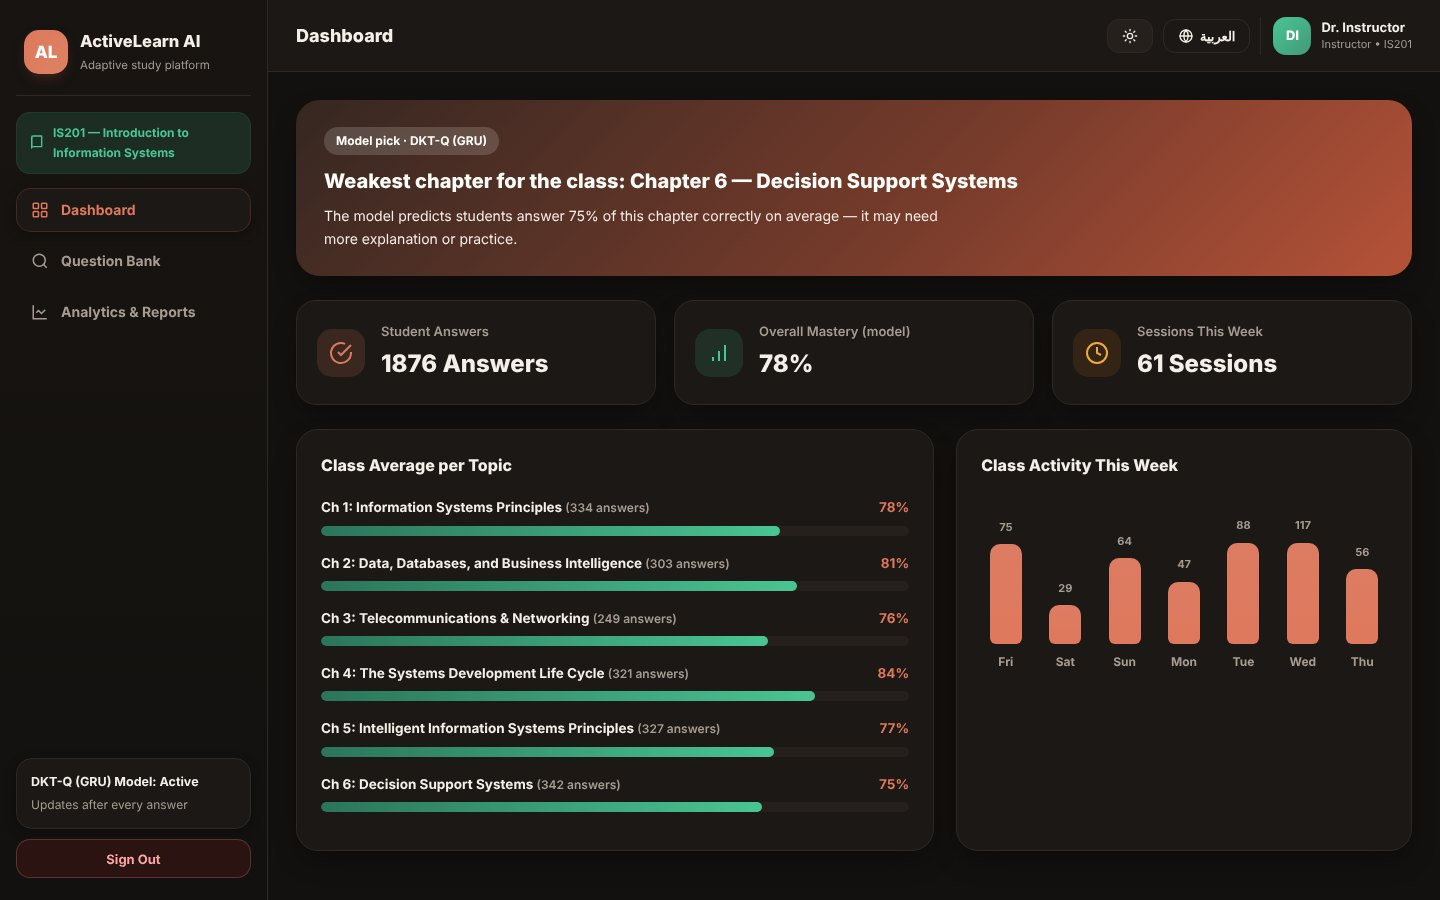
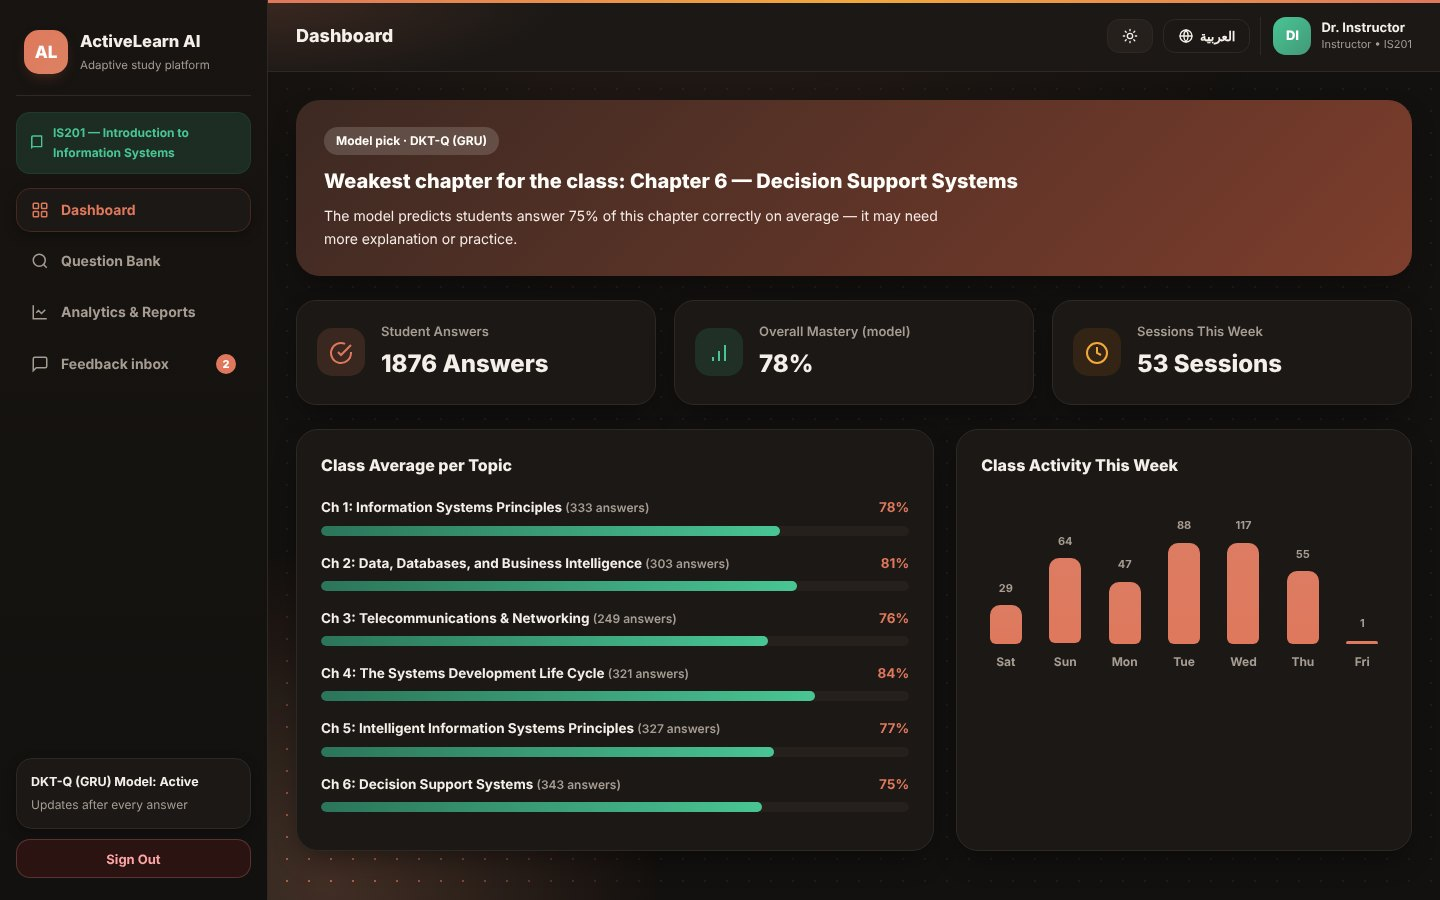
README: retake screenshots on the current version
Same 8 screens with the new look (spotlight background, footer, bordered
Practice buttons), plus chapter practice, the anonymous feedback window
and the instructor's feedback inbox.

Claude-Session: https://claude.ai/code/session_01AEDKy53hfSttqARcurjMNU

diff --git a/README.md b/README.md
@@ -35,12 +35,16 @@ Training curves and all metrics: [`model/results/`](model/results). Details: [`m
 | Sign in | Student dashboard |
 |---|---|
 | ![Sign in](docs/screenshots/01_sign_in.jpg) | ![Student dashboard](docs/screenshots/03_student_dashboard.jpg) |
-| **Adaptive quiz with instant feedback** | **Personal reports** |
-| ![Adaptive quiz](docs/screenshots/04_adaptive_quiz.jpg) | ![Reports](docs/screenshots/05_reports.jpg) |
-| **Instructor: class dashboard** | **Instructor: question bank** |
-| ![Instructor dashboard](docs/screenshots/07_instructor_dashboard.jpg) | ![Question bank](docs/screenshots/08_instructor_question_bank.jpg) |
-| **Sign up** | **Arabic interface, light theme** |
-| ![Sign up](docs/screenshots/02_sign_up.jpg) | ![Arabic](docs/screenshots/06_arabic_light.jpg) |
+| **Adaptive quiz with instant feedback** | **Chapter practice: one chapter, difficulty follows the level** |
+| ![Adaptive quiz](docs/screenshots/04_adaptive_quiz.jpg) | ![Chapter practice](docs/screenshots/09_chapter_practice.jpg) |
+| **Personal reports** | **Anonymous feedback & complaints** |
+| ![Reports](docs/screenshots/05_reports.jpg) | ![Feedback form](docs/screenshots/10_feedback_form.jpg) |
+| **Instructor: class dashboard** | **Instructor: feedback inbox** |
+| ![Instructor dashboard](docs/screenshots/07_instructor_dashboard.jpg) | ![Feedback inbox](docs/screenshots/11_instructor_feedback_inbox.jpg) |
+| **Instructor: question bank** | **Arabic interface, light theme** |
+| ![Question bank](docs/screenshots/08_instructor_question_bank.jpg) | ![Arabic](docs/screenshots/06_arabic_light.jpg) |
+| **Sign up** | |
+| ![Sign up](docs/screenshots/02_sign_up.jpg) | |
 
 ## Features
 - **Students:** dashboard with AI mastery per chapter, adaptive quiz with explanations, chapter practice
